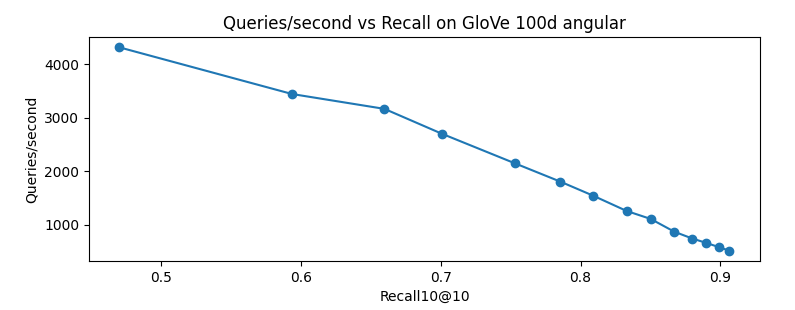
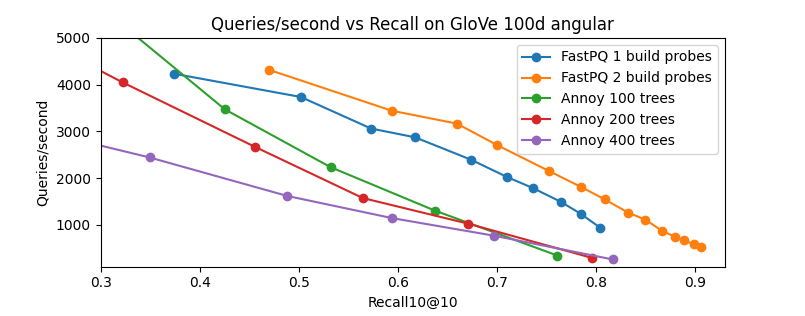
Added comparison to Anony

diff --git a/examples/annoy.py b/examples/annoy.py
@@ -1,0 +1,108 @@
+#!/usr/bin/env python3
+
+import argparse
+import time
+import numpy as np
+import os.path
+import sys
+import pickle
+import tqdm
+
+from annoy import AnnoyIndex
+from fast_pq import cdist, brute
+
+parser = argparse.ArgumentParser(description="Benchmark FastPQ and IVF on GloVe dataset")
+parser.add_argument("filename", help="Path to the GloVe .npy file (e.g., glove.840B.100d.npy)")
+parser.add_argument(
+    "--n-queries",
+    type=int,
+    default=10000,
+    help="Number of random queries to run (default: 10000)",
+)
+parser.add_argument(
+    "--dims-per-block",
+    type=int,
+    default=2,
+    help="More dims-per-block is faster, but less precise (default: 2)",
+)
+parser.add_argument(
+    "--k-neighbours",
+    type=int,
+    default=10,
+    help="Number of neighbours in k-NN search (default: 10)"
+)
+parser.add_argument(
+    "--query-method",
+    choices=["query", "query2", "query3"],
+    default="query",
+    help="Select the query method to use: query, query2, or query3 (default: query)"
+)
+parser.add_argument(
+    "--metric",
+    choices=["euclidean", "angular"],
+    default="euclidean",
+    help="Metric to use in IVF. Can be 'euclidean' or 'angular'. Default is 'euclidean'."
+)
+args = parser.parse_args()
+
+num_queries, dims_per_block, k_neighbours = args.n_queries, args.dims_per_block, args.k_neighbours
+print("Loading and shuffling...")
+data = np.load(args.filename)
+np.random.seed(10)
+np.random.shuffle(data)
+data, queries = data[:-num_queries], data[-num_queries:]
+
+num_points, num_dims = data.shape
+num_clusters = int(num_points**0.5)
+print(f"{num_points=}, {num_dims=}, {num_queries=}, {dims_per_block=}, {num_clusters=}")
+
+true_neighbours_filename = f"trus_{num_points}_{num_queries}_{args.metric}.npy"
+#true_neighbours_filename = f"trus_{num_points}_{num_queries}.npy"
+if os.path.isfile(true_neighbours_filename):
+    print("Loading true neighbours from", true_neighbours_filename)
+    true_neighbours = np.load(true_neighbours_filename)
+    num_queries, k_neighbours = true_neighbours.shape
+    print(f"Found {num_queries=}, {k_neighbours=}")
+else:
+    print("Computing true neighbours...")
+    start = time.time()
+    true_neighbours = brute(queries, data, k_neighbours, metric=args.metric)
+    print(f"Took {time.time() - start:.1f} seconds.")
+    np.save(true_neighbours_filename, true_neighbours)
+
+
+print("Now that we have the index, actually add the points to it.")
+for build_probes in [100, 200, 400]:
+    print("Creating new Annoy index...")
+    start = time.time()
+    ann = AnnoyIndex(data.shape[1], 'angular')
+    for i, v in enumerate(tqdm.tqdm(data)):
+        ann.add_item(i, v)
+    print(f"Took {time.time() - start:.1f} seconds.")
+
+    print(f"Building {build_probes} trees...")
+    start = time.time()
+    ann.build(build_probes)
+    print(f"Took {time.time() - start:.1f} seconds.")
+
+    print("Querying")
+    recall = 0
+    for n_probes in [100, 200, 400, 1000, 2000, 4000, 10000, 20000, 40000, 100000, 200000, 400000]:
+        start = time.time()
+        found = 0
+
+        with tqdm.tqdm(enumerate(zip(queries, true_neighbours)), total=num_queries, leave=False) as pbar:
+            pbar.set_description(f"Probing: {n_probes} nodes")
+            for i, (query, true_neighbor) in pbar:
+                guess = ann.get_nns_by_vector(query, n=k_neighbours, search_k=n_probes)
+                found += len(set(true_neighbor) & set(guess))
+
+        query_time = time.time() - start
+        recall = found / k_neighbours / num_queries
+
+        print(f"Recall{k_neighbours}@{k_neighbours}:", recall)
+        qps = num_queries / query_time
+        print("Queries/second:", qps)
+        if qps < 500:
+            break
+

diff --git a/examples/plot_bench.py b/examples/plot_bench.py
@@ -4,13 +4,16 @@ import matplotlib.pyplot as plt
 data = sys.stdin.read()
 
 # Extract recall and queries/second values from the data
-series = []
+fast_pq_series = []
+annoy_series = []
 
 for line in data.split("\n"):
-    if match := re.match(r"Adding each point to (\d) lists", line):
-        recall = []
-        queries_per_second = []
-        series.append((int(match.group(1)), recall, queries_per_second))
+    if match := re.search(r"Adding each point to (\d+) lists", line):
+        recall, queries_per_second = [], []
+        fast_pq_series.append((int(match.group(1)), recall, queries_per_second))
+    if match := re.search(r"Building (\d+) trees", line):
+        recall, queries_per_second = [], []
+        annoy_series.append((int(match.group(1)), recall, queries_per_second))
     if (match := re.search(r"Recall10@10: (\d+\.\d+)", line)):
         recall_value = float(match.group(1))
         recall.append(recall_value)
@@ -19,10 +22,14 @@ for line in data.split("\n"):
         queries_per_second.append(qps_value)
 
 # Plot the data
-for l, recall, queries_per_second in series[1:2]:
-    plt.plot(recall, queries_per_second, marker='o', label=f"{l} build probes")
+for l, recall, queries_per_second in fast_pq_series[:2]:
+    plt.plot(recall, queries_per_second, marker='o', label=f"FastPQ {l} build probes")
+for l, recall, queries_per_second in annoy_series:
+    plt.plot(recall, queries_per_second, marker='o', label=f"Annoy {l} trees")
 plt.xlabel("Recall10@10")
+plt.xlim([.3, .93])
+plt.ylim([100, 5000])
 plt.ylabel("Queries/second")
 plt.title("Queries/second vs Recall on GloVe 100d angular")
-#plt.legend()
+plt.legend()
 plt.show()
